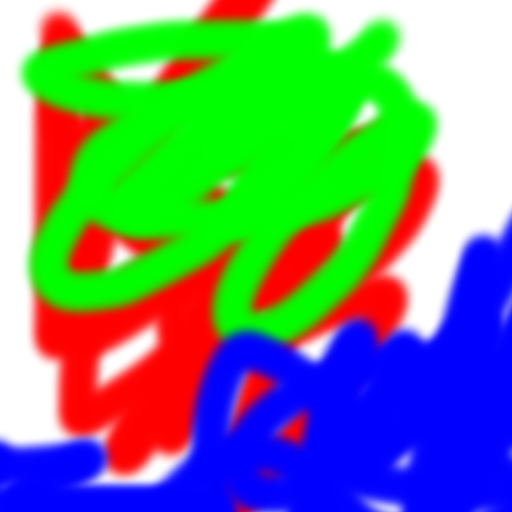
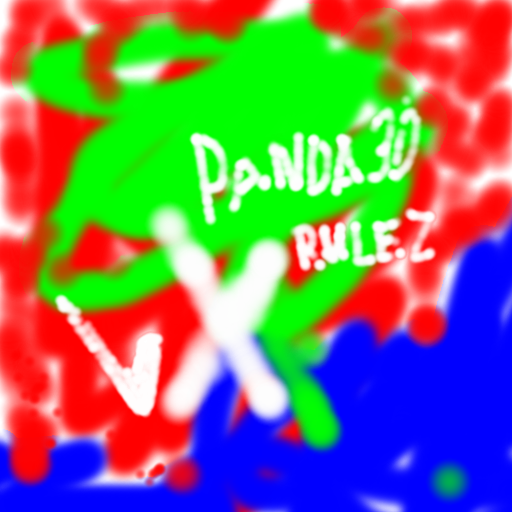
saving of painted textures works now. some small bugfixes

diff --git a/src/core/modules/pShaderWrapper/__init__.py b/src/core/modules/pShaderWrapper/__init__.py
@@ -174,22 +174,32 @@ class ShaderWrapper(BaseWrapper):
   
   def startPaint(self):
     if not self.paintActive:
+      print "I: ShaderWrapper.startPaint"
       texturePainter.selectPaintModel(self.nodePath)
       texturePainter.enableEditor()
-      paintTex = self.shader.loadedMaps[posixpath.join(self.relativePath, self.tex1Path)]
-      texturePainter.startEdit(paintTex)
+      self.paintTex = self.shader.loadedMaps[posixpath.join(self.relativePath, self.tex1Path)]
+      texturePainter.startEdit(self.paintTex)
+      col = VBase4D(self.paintColor[0], self.paintColor[1], self.paintColor[2], self.paintColor[3])
+      texturePainter.setBrush(col, self.paintSize)
       self.paintActive = True
   
   def stopEdit(self):
     # the object is deselected from being edited
     print "I: ShaderWrapper.stopEdit:", self.isEditmodeEnabled()
+    self.stopPaint()
     messenger.send(EVENT_SCENEPICKER_MODELSELECTION_ENABLE)
   
   def stopPaint(self):
     if self.paintActive:
+      print "I: ShaderWrapper.stopPaint"
       texturePainter.stopEdit()
       texturePainter.disableEditor()
       self.paintActive = False
+      # saving the texture
+      saveTex = PNMImage()
+      self.paintTex.store(saveTex)
+      savePath = posixpath.join(self.relativePath, self.tex1Path)
+      saveTex.write(Filename(savePath))
   
   def destroy(self):
     self.stopEdit()
